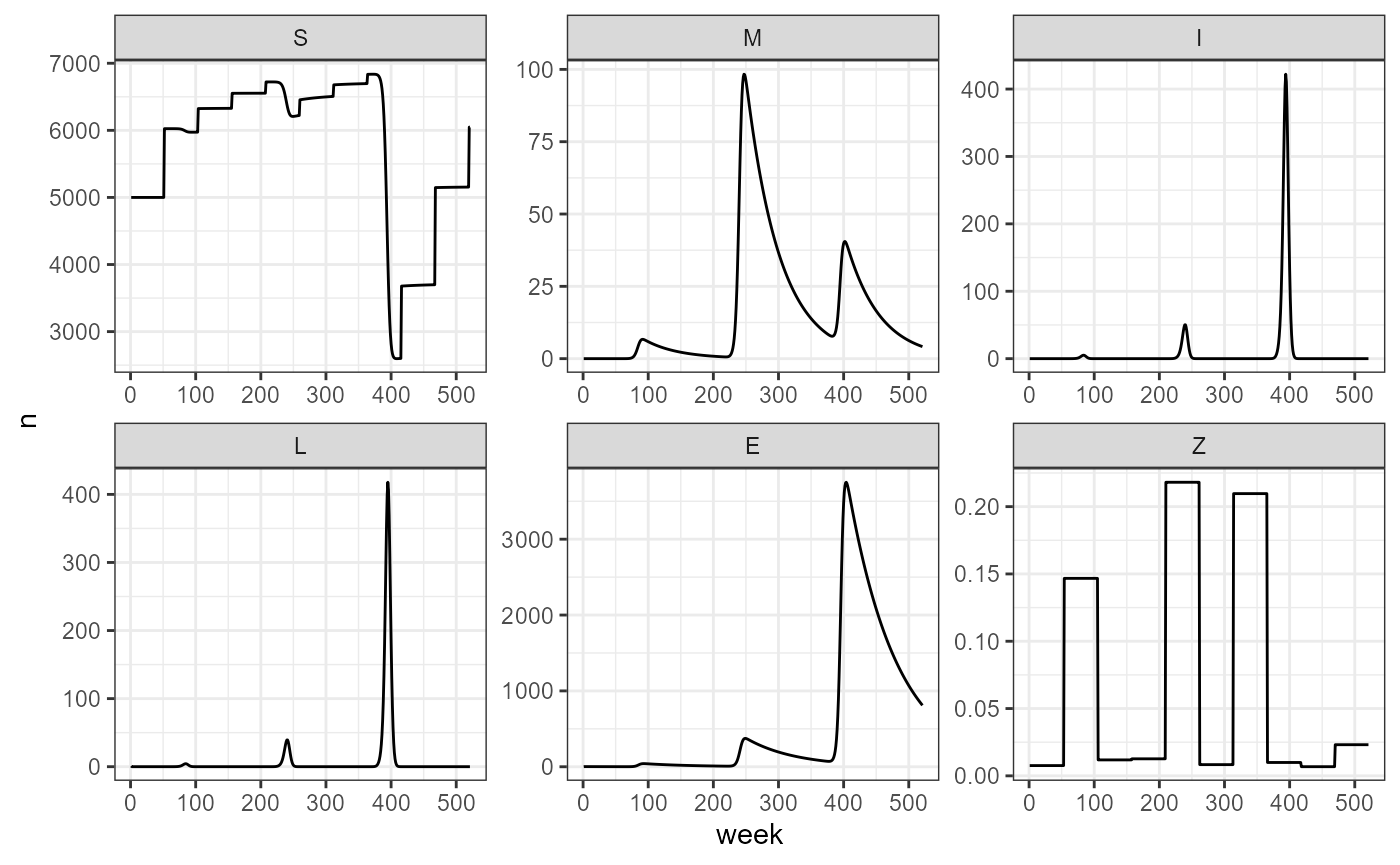
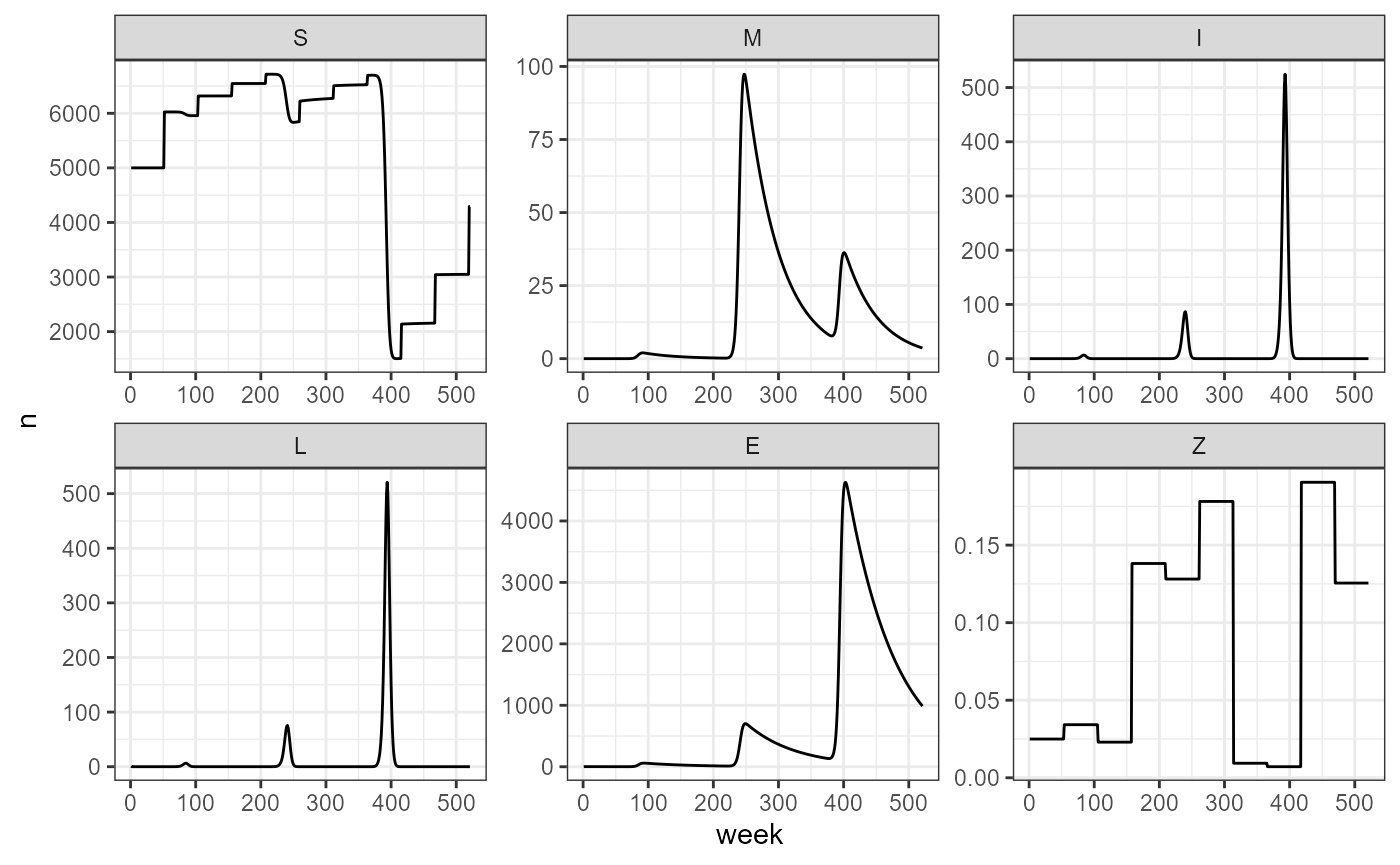
updated a short vaccine vignette

diff --git a/docs/articles/add_vax.html b/docs/articles/add_vax.html
@@ -77,15 +77,21 @@
 <span><span class="kw"><a href="https://rdrr.io/r/base/library.html" class="external-link">library</a></span><span class="op">(</span><span class="va"><a href="https://tidyverse.tidyverse.org" class="external-link">tidyverse</a></span><span class="op">)</span></span>
 <span><span class="kw"><a href="https://rdrr.io/r/base/library.html" class="external-link">library</a></span><span class="op">(</span><span class="va"><a href="https://wilkelab.org/cowplot/" class="external-link">cowplot</a></span><span class="op">)</span></span></code></pre></div>
 <p>We incorporate vaccination into the model as a term that modifies the
-probability of moving from compartment I to D or M. This means,
-vaccination is incorporated into the model as having an effect over
-survival probability, by changing the probability of moving from the
-infected compartment to the LIZ (death) or M (Immune) compartments.</p>
+probability of survival, in other words, it modifies the fraction of the
+population that moves from the infected compartment to the immune
+compartment, instead of dying and becoming LIZ. The purpose of
+vaccination is to enable the host to fight off the infection, and by
+preventing death, we also reduce the number of infective particles
+becoming available in the environment. The parameters associated to
+vaccination describe the survival curve offered by herd immunity. The
+parameters <span class="math inline">\(\beta_0\)</span> and <span class="math inline">\(\beta_1\)</span> define a logistic curve for which
+different population-level vaccination rates translate to different
+survival probabilities. These parameters are associated to the host’s
+natural immunity to the pathogen, and the vaccine’s effectiveness.</p>
 <p>As a simple exercise, we can consider a population over the course of
 10 years, where the vaccination rate is held constant. In the case of a
-constant vaccination rate, we are essentially just changing the survival
-probability, and it remains the same over the course of the
-simulation.</p>
+constant vaccination rate, we are essentially keeping survival
+probability constant over the course of the simulation.</p>
 <p>First, we set our parameters:</p>
 <div class="sourceCode" id="cb2"><pre class="downlit sourceCode r">
 <code class="sourceCode R"><span><span class="co"># base parameters</span></span>
@@ -143,13 +149,13 @@ generated</p>
 <span>           vax <span class="op">=</span> <span class="va">my_yearly_vax</span>, beta_0 <span class="op">=</span> <span class="va">my_beta0</span>, beta_1 <span class="op">=</span> <span class="va">my_beta1</span>, output_df <span class="op">=</span> <span class="cn">TRUE</span><span class="op">)</span> <span class="op">-&gt;</span> <span class="va">var_vax_sim</span></span>
 <span></span>
 <span><span class="fu"><a href="https://rdrr.io/r/utils/head.html" class="external-link">head</a></span><span class="op">(</span><span class="va">var_vax_sim</span><span class="op">)</span></span>
-<span><span class="co">#&gt;   week    S M I L        E           Z</span></span>
-<span><span class="co">#&gt; 1    1 5000 0 0 1 1.000000 0.007624547</span></span>
-<span><span class="co">#&gt; 2    2 5000 0 0 0 1.986800 0.007624547</span></span>
-<span><span class="co">#&gt; 3    3 5000 0 0 0 1.960574 0.007624547</span></span>
-<span><span class="co">#&gt; 4    4 5000 0 0 0 1.934695 0.007624547</span></span>
-<span><span class="co">#&gt; 5    5 5000 0 0 0 1.909157 0.007624547</span></span>
-<span><span class="co">#&gt; 6    6 5000 0 0 0 1.883956 0.007624547</span></span></code></pre></div>
+<span><span class="co">#&gt;   week    S M I L        E          Z</span></span>
+<span><span class="co">#&gt; 1    1 5000 0 0 1 1.000000 0.02496662</span></span>
+<span><span class="co">#&gt; 2    2 5000 0 0 0 1.986800 0.02496662</span></span>
+<span><span class="co">#&gt; 3    3 5000 0 0 0 1.960574 0.02496662</span></span>
+<span><span class="co">#&gt; 4    4 5000 0 0 0 1.934695 0.02496662</span></span>
+<span><span class="co">#&gt; 5    5 5000 0 0 0 1.909157 0.02496662</span></span>
+<span><span class="co">#&gt; 6    6 5000 0 0 0 1.883956 0.02496662</span></span></code></pre></div>
 <div class="sourceCode" id="cb7"><pre class="downlit sourceCode r">
 <code class="sourceCode R"><span><span class="va">var_vax_sim</span> <span class="op">|&gt;</span> <span class="fu">build_SMILE_plots</span><span class="op">(</span><span class="op">)</span></span></code></pre></div>
 <p><img src="add_vax_files/figure-html/unnamed-chunk-7-1.png" width="700"></p>

diff --git a/docs/index.html b/docs/index.html
@@ -41,6 +41,7 @@
 <li class="nav-item dropdown">
   <a href="#" class="nav-link dropdown-toggle" data-bs-toggle="dropdown" role="button" aria-expanded="false" aria-haspopup="true" id="dropdown-articles">Articles</a>
   <div class="dropdown-menu" aria-labelledby="dropdown-articles">
+    <a class="dropdown-item" href="articles/add_vax.html">add_vax</a>
     <a class="dropdown-item" href="articles/epi2024.html">epi2024</a>
     <a class="dropdown-item" href="articles/main_function.html">main_function</a>
   </div>
